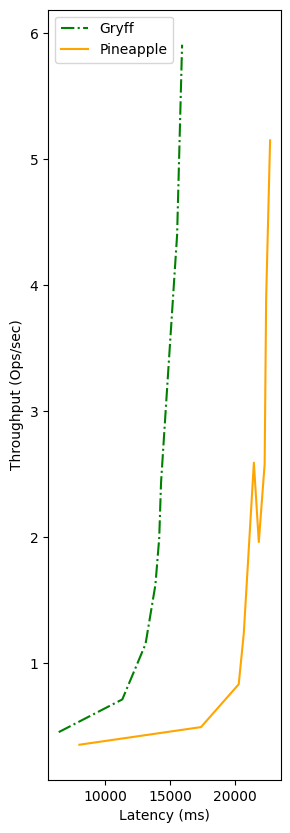
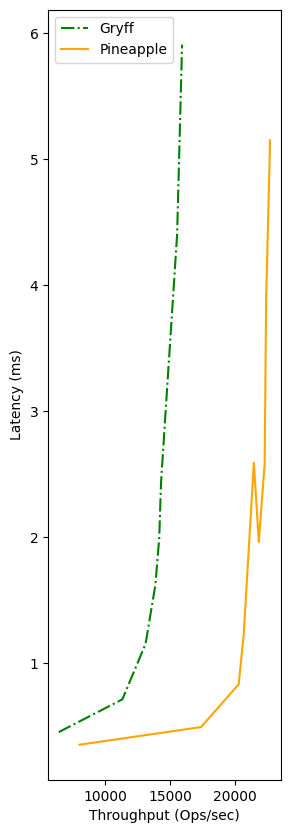
test legend

Changed region(s): [[0.3103, 0.9676, 0.8379, 0.9988], [0.031, 0.3745, 0.0931, 0.5618]]

diff --git a/line.py b/line.py
@@ -18,9 +18,9 @@ fig.set_figwidth(3)
 ax.plot(x, y, color='green', linestyle="dashdot", label="Gryff")
 ax.plot(x1,y1, color='orange', linestyle="solid", label="Pineapple")
 
-ax.set_xlabel("Latency (ms)")
-ax.set_ylabel("Throughput (Ops/sec)")
+ax.set_ylabel("Latency (ms)")
+ax.set_xlabel("Throughput (Ops/sec)")
 
-ax.legend()
+ax.legend(('Gryff','Pineapple'))
 
 fig.savefig("latency-tput.png", bbox_inches="tight")
